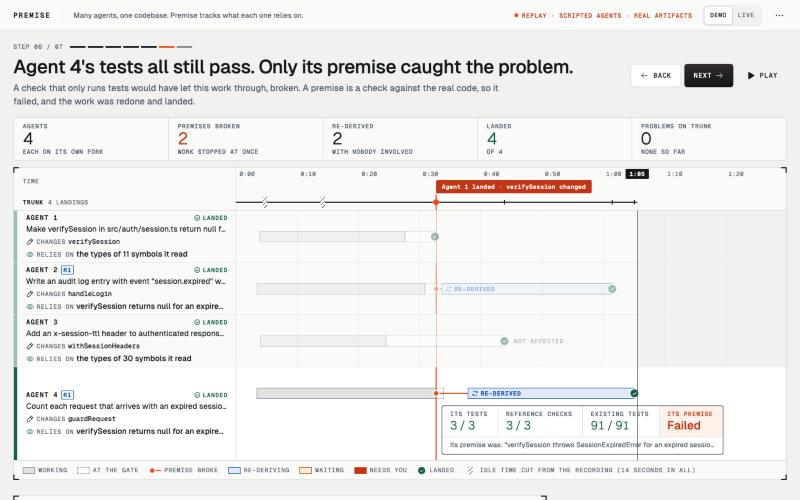
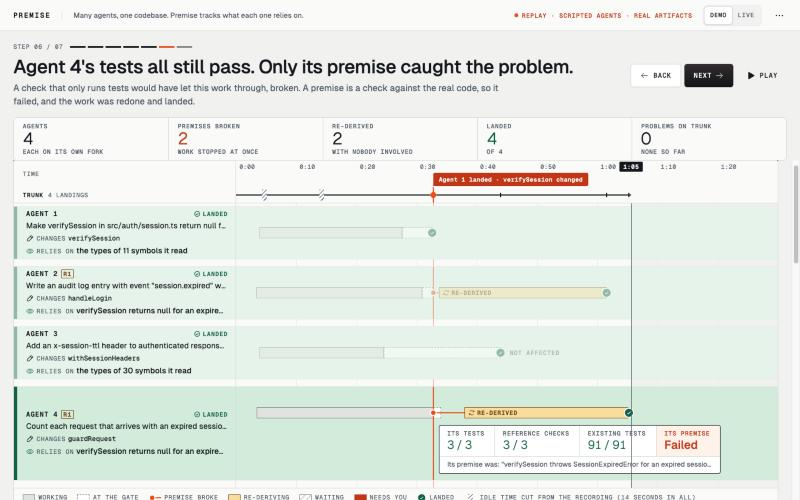
The owner's menu items (Dispatch tasks, Run workload, Reset demo) are shown only with ?admin in the address or a typed token; README screenshots retaken with the lane colours

diff --git a/src/ui/App.tsx b/src/ui/App.tsx
@@ -73,6 +73,12 @@ const OPENING_NOTES: Record<string, string> = {
 /** Added to the last step of the front-page run. */
 const WHAT_NEXT = "Below: the same work landed under three different rules. The Live tab runs it for real.";
 const DEMO = query.get("demo") ?? DEFAULT_RUN;
+/**
+ * `?admin` shows the owner's tools under "More": dispatching by hand, the workload, and reset. A
+ * visitor never needs them (the Live tab's Start button is the whole of what a visitor can do) and
+ * every one of them asks for the admin token anyway, so this is tidiness, not a lock.
+ */
+const ADMIN = query.has("admin");
 /** A touch screen (a phone, a tablet): "More" is a list of buttons there, not the keyboard's palette. */
 const COARSE_POINTER = typeof window.matchMedia === "function" && window.matchMedia("(pointer: coarse)").matches;
 /** A lookup by a name that came from the address bar: only the table's own entries count ("constructor" is not a run). */
@@ -410,10 +416,11 @@ export function App() {
 		() => [
 			{ id: "live", title: "Watch the live board", hint: "what the deployed Worker is doing now", run: () => show("live") },
 			{ id: "replay", title: "Play the demo recording", hint: "the recorded run, told as a story", run: () => show("replay") },
-			{ id: "dispatch", title: "Dispatch tasks", hint: "starts a run; needs the admin token", run: () => setDispatching(true) },
-			{ id: "workload", title: "Run workload", hint: "scripted Intents; needs the admin token", run: () => setDispatching(true) },
+			{ id: "dispatch", owner: true, title: "Dispatch tasks", hint: "starts a run; needs the admin token", run: () => setDispatching(true) },
+			{ id: "workload", owner: true, title: "Run workload", hint: "scripted Intents; needs the admin token", run: () => setDispatching(true) },
 			{
 				id: "reset",
+				owner: true,
 				title: "Reset demo",
 				hint: "clears the live board; needs the admin token",
 				run: () => {
@@ -431,8 +438,11 @@ export function App() {
 		],
 		[token, show],
 	);
+	// The owner's tools are offered to the owner: with `?admin` in the address, or once the token has been typed in this session.
+	const ownerTools = ADMIN || token !== "";
+	const offered = useMemo(() => actions.filter((command) => ownerTools || !command.owner), [actions, ownerTools]);
 	// Whichever of "watch live" and "play the recording" is already on screen is not offered.
-	const menuActions = useMemo(() => actions.filter((command) => command.id !== (mode === "live" ? "live" : "replay")), [actions, mode]);
+	const menuActions = useMemo(() => offered.filter((command) => command.id !== (mode === "live" ? "live" : "replay")), [offered, mode]);
 	const plainMenu = layout !== "wide" || COARSE_POINTER;
 	const jumps = useMemo<Command[]>(() => lanes.agents.map((intent) => ({ id: `jump-${intent.id}`, title: `Open ${callsignOf(intent.id)}`, run: () => setSelected(intent.id) })), [lanes.agents, callsignOf]);
 
@@ -553,7 +563,7 @@ export function App() {
 				/>
 			) : null}
 			{/* A keyboard gets the palette (⌘K). A touch screen, or a narrow window, gets the same actions as buttons. */}
-			{plainMenu ? <MoreSheet open={paletteOpen} onOpenChange={setPaletteOpen} actions={menuActions} jumps={jumps} /> : <Palette open={paletteOpen} onOpenChange={setPaletteOpen} actions={actions} jumps={jumps} />}
+			{plainMenu ? <MoreSheet open={paletteOpen} onOpenChange={setPaletteOpen} actions={menuActions} jumps={jumps} /> : <Palette open={paletteOpen} onOpenChange={setPaletteOpen} actions={offered} jumps={jumps} />}
 			<Shortcuts open={shortcutsOpen} onOpenChange={setShortcutsOpen} />
 			{selectedIntent ? <Drawer intent={selectedIntent} events={events} callsignOf={callsignOf} named={named} diff={diff} replay={mode === "replay"} layout={layout} onSelect={setSelected} onClose={() => setSelected(null)} /> : null}
 		</div>

diff --git a/src/ui/components/SimpleBar.tsx b/src/ui/components/SimpleBar.tsx
@@ -35,8 +35,8 @@ interface SimpleBarProps {
 
 /**
  * The top bar: the name, one line saying what Premise is, what kind of run is on screen, and the
- * two tabs. Everything a newcomer does not need (dispatching by hand, resetting, the shortcuts) is
- * one click away under "More", not in front of the story.
+ * two tabs. What a newcomer does not need is one click away under "More", not in front of the story:
+ * the shortcuts, and, for the owner only (see ADMIN in App.tsx), dispatching by hand and resetting.
  */
 export function SimpleBar({ layout, views, onMore, kind }: SimpleBarProps) {
 	return (
@@ -58,7 +58,7 @@ export function SimpleBar({ layout, views, onMore, kind }: SimpleBarProps) {
 			<div className="simplebar-views" onPointerUp={releaseFocus}>
 				{views}
 			</div>
-			<Button variant="ghost" size="sm" shape="square" aria-label="More: dispatching, resetting, keyboard shortcuts" title="More (⌘K)" onClick={onMore}>
+			<Button variant="ghost" size="sm" shape="square" aria-label="More" title="More (⌘K)" onClick={onMore}>
 				<DotsThree size={20} weight="bold" />
 			</Button>
 		</header>

diff --git a/scripts/demo.ts b/scripts/demo.ts
@@ -37,7 +37,8 @@ async function start(api: ReturnType<typeof worker>, show: boolean): Promise<voi
 	const reset = await api.post<{ trunk: string }>("/api/admin/reset-demo");
 	console.log(`Reset. Trunk is ${reset.trunk}.`);
 	if (show) {
-		open(`${url}/?live`);
+		// With the owner's tools under "More" (dispatching by hand, reset): whoever runs this script is the owner.
+		open(`${url}/?live&admin`);
 	}
 	const tasks = await api.get<TaskDef[]>("/api/tasks");
 	await api.post("/api/dispatch", { taskIds: tasks.map((task) => task.id), landFirst: ["t01-null-expired"] });

diff --git a/src/ui/components/Palette.tsx b/src/ui/components/Palette.tsx
@@ -2,6 +2,8 @@ import { CommandPalette, Dialog } from "@cloudflare/kumo";
 import { useMemo, useState } from "react";
 
 export interface Command {
+	/** For whoever runs the deployment (it needs the admin token): not offered to a visitor. */
+	owner?: boolean;
 	id: string;
 	title: string;
 	run: () => void;

diff --git a/docs/UI.md b/docs/UI.md
@@ -33,7 +33,7 @@ The user found the strip board hard to follow for someone new, and the tape easy
 - **Plain names.** Rows are "Agent 1" to "Agent N" in task order. The callsigns (T02 AUDIT) are not shown. One product word is introduced per step: Intent, premise, trunk, re-derive. A stopped Intent's status word is "stopped", not "stale".
 - **Rows grow with the room.** Up to 6 agents: tall rows with the job, "Changes …" (pencil) and "Relies on …" (eye). 7 to 16: one line for the job; what it relies on shows when the row is in focus. More: the name alone.
 - **Focus points.** The rows a step is about are tinted and the rest dim. A row whose tests all passed shows what the gate ran: three readings that passed, one that failed, and the premise it had stated.
-- **The top bar is three things:** the name, one line saying what Premise is, and two tabs, **Demo** and **Live** (since Oct 12, evening; before that there were three views and a separate Replay/Live switch, which read as five places to be). A label beside the tabs says what kind of run is on screen ("Replay · scripted agents · real Artifacts", "Live · scripted agents · real Artifacts"). Dispatching by hand, resetting and the shortcuts are under "More" (⌘K, or a plain list of buttons on a touch screen).
+- **The top bar is three things:** the name, one line saying what Premise is, and two tabs, **Demo** and **Live** (since Oct 12, evening; before that there were three views and a separate Replay/Live switch, which read as five places to be). A label beside the tabs says what kind of run is on screen ("Replay · scripted agents · real Artifacts", "Live · scripted agents · real Artifacts"). The shortcuts are under "More" (⌘K, or a plain list of buttons on a touch screen). So are dispatching by hand, the workload and reset, but only for the owner: with `admin` in the address, or once the admin token has been typed. A visitor has the Start button and nothing to be confused by.
 - **Demo is one page.** The recorded run as a story, and under its tape the two things that go with it, each a panel with one headline and a few numbers: the comparison ("The same work, landed under three rules.") and the larger run ("12 agents and 294 scripted Intents, through one gate."). The story's last step says they are there. They are not tabs.
 - **Live is the same page, happening now.** Where the story bar has Back and Next, the live bar has one button, **Start a run**, and the sentence over the tape is the latest thing the story has to say about the run on the board (`src/ui/lib/live.ts`): the same sentences as the replay, generated from the live log. The run is summed up only once every Intent has come to rest and the log has been silent for a moment. The button always says why it cannot be pressed: "Starting…", "Running…", "Next run in 1:35", or a line saying live runs are switched off. The limits behind it are in `src/worker/live/public-run.ts`.
 - **The tape glides.** Its playhead follows the replay's clock every frame, on an axis fixed for the whole run.

diff --git a/docs/video/stage-10min.md b/docs/video/stage-10min.md
@@ -41,7 +41,7 @@ Three things to hold to:
 - **The live run stalls with Intents "queued".** The gate may still be working: a 100-Intent workload takes two to three minutes to drain. The agents' twelve rows land first; do not wait for the workload.
 - **A line asking a person appears live** ("Agent 5 and Agent 6 both want computeTotal"). The ledger could not settle it and asks Wait / Split / Depend. Say so in a sentence and leave it; it closes by itself when Agent 6 lands.
 - **Someone asks to see it with a real model.** Tab 4 is exactly that, and say what is true: four agents with a live model have run twice on Cloudflare; all four landed both times, and both times one regression reached trunk, because the model redid stopped work without fixing it. The stage run uses scripted turns so it cannot be slowed down by a provider's rate limit.
-- **Reset between rehearsals:** `npm run demo` resets before it dispatches. To reset without dispatching, use the "Reset demo" command in `⌘K` (it asks for the admin token in the dispatch panel; type it before the audience arrives).
+- **Reset between rehearsals:** `npm run demo` resets before it dispatches. To reset without dispatching, open the page with `admin` in the address (`/?live&admin`) and use "Reset demo" under More or `⌘K` (it asks for the admin token in the dispatch panel; type it before the audience arrives). Without `admin` in the address those commands are not shown, which is how a visitor sees the page.
 - **The simplest live run of all:** with public runs on, press **Start a run** on the Live tab. No terminal. It is twelve agents and thirty workload Intents, and takes three to four minutes. Use it if the terminal misbehaves; the reason not to make it the plan is the one above, that anyone else can press it too.
 
 ## Offline fallback

diff --git a/README.md b/README.md
@@ -58,7 +58,7 @@ The agents in the first two demo recordings, and in every run started from the L
 
 ![Step 6: after the change, Agent 4's own tests, the reference checks and every existing test pass, and its premise fails](docs/screens/story-premise.jpg)
 
-![The Live tab during a run on Cloudflare: Agent 1 has landed, and the agents that relied on the old behaviour are stopped and being re-derived](docs/screens/live-run.jpg)
+![The Live tab after a run on Cloudflare that was started with its Start button: all twelve agents' lanes are green, and three show the yellow bar of work that was re-derived](docs/screens/live-run.jpg)
 
 ## How premises work
 
@@ -197,6 +197,8 @@ Needs the Workers Paid plan (Artifacts requires it) and Node 22.12 or later. A m
 ```bash
 curl -X POST <your worker>/api/admin/public-runs -H "x-admin-token: <your token>" -H "content-type: application/json" -d '{"enabled":false}'
 ```
+
+**The owner's tools are hidden from visitors.** "Dispatch tasks", "Run workload" and "Reset demo" appear under More only when the address has `admin` in it (`<your worker>/?live&admin`), or once the admin token has been typed in that browser session. They pick which tasks run, add a workload of any size, and clear the board; each asks for the admin token. `npm run demo` opens the page that way.
 
 Switch it off before you show a run to a room, record one, or switch the agents to a model: a visitor cannot interrupt a run in progress, but may start the next one the moment yours has ended. `scripts/ab.ts` does this by itself. `{"enabled":true,"clear":true}` also gives the day's runs back.
 

diff --git a/docs/DECISIONS.md b/docs/DECISIONS.md
@@ -1046,3 +1046,5 @@ Started without a token: two with a bare POST, the third with the button on the 
 - **The details panel:** a 2px ink top line and a shadow; Close moved from the far right of the header to a tab on the middle of the top edge, beside the grip; the dividers between its columns drag (`dragColumns` and `columnEdges`, pure, in `view.ts`). No dimming of the board behind it: the panel is not modal, and the row it is about has to stay readable beside it.
 - **The Live tab's loading state** is the tape's shape at full width. Until the board has been read the sentence is "Opening the live board.", not "Nothing is running", which was not yet known; the small label reads "Connecting to the Worker…" and then "Live".
 - `npm test`: 1,020 passed, 4 skipped.
+- **The owner's tools are not shown to visitors.** "Dispatch tasks", "Run workload" and "Reset demo" are under More only with `admin` in the address (`/?live&admin`) or once the admin token has been typed in that session. The user asked whether to do this with a deploy-time variable. A flag in the address was chosen instead: the owner keeps the tools on the same deployment without a second build, and nothing is being protected by it, since every one of those actions needs the admin token.
+- The deck (an Artifact, not in the repo) gained two slides: the ledger (Wait, Split, Depend) and how this would scale up.
